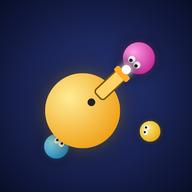
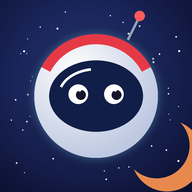
Add files via upload

diff --git a/index.html b/index.html
@@ -3,7 +3,7 @@
 <head>
 <meta charset="UTF-8">
 <meta name="viewport" content="width=device-width, initial-scale=1, user-scalable=no, viewport-fit=cover">
-<title>كرات ومسدسات</title>
+<title>حارس الفضاء</title>
 <link rel="manifest" href="manifest.json">
 <meta name="theme-color" content="#0d1230">
 <style>
@@ -112,7 +112,7 @@ button{font-family:inherit;cursor:pointer}
 </div>
 
 <div class="ov" id="menu">
-  <h1 class="logo">كرات <br>ومسدسات</h1>
+  <h1 class="logo">حارس <br>الفضاء</h1>
   <div id="best"></div>
   <button class="big" id="cont" style="display:none">كمّل اللعب</button>
   <button class="big" id="resume" style="display:none">كمّل الجولة</button>
@@ -153,21 +153,21 @@ addEventListener("resize",resize);resize();
 // ===== المراحل =====
 const ROUNDS=5;
 const WORLDS=[
- {n:"عالم النجوم",rule:"بدون قيود، ابدأ بهدوء",hue:222},
- {n:"عالم الثلج ❄",rule:"الأرض زلقة: تنزلق وانت تتحرك",hue:195,ice:1},
- {n:"عالم الظلام 🌑",rule:"الرؤية محدودة حولك فقط",hue:275,dark:1},
- {n:"عالم النار 🔥",rule:"بقع حمم حمراء تحرقك لو وقفت عليها",hue:15,lava:1},
- {n:"عالم الصحراء 🏜",rule:"عواصف رملية تدفعك بين فترة وأخرى",hue:38,wind:1},
- {n:"عالم العواصف ⚡",rule:"صواعق تضرب أماكن عشوائية قربك",hue:215,storm:1}
+ {n:"مدار الأرض 🌍",rule:"بدون قيود، ابدأ بهدوء",hue:222},
+ {n:"كوكب الجليد ❄",rule:"الأرض زلقة: تنزلق وانت تتحرك",hue:195,ice:1},
+ {n:"الثقب المظلم 🌑",rule:"الرؤية محدودة حولك فقط",hue:275,dark:1},
+ {n:"كوكب النار 🔥",rule:"بقع بلازما حارقة تحرقك لو وقفت عليها",hue:15,lava:1},
+ {n:"كوكب الصحراء 🏜",rule:"عواصف رملية تدفعك بين فترة وأخرى",hue:38,wind:1},
+ {n:"عاصفة الأقمار ⚡",rule:"صواعق تضرب أماكن عشوائية قربك",hue:215,storm:1}
 ];
-const BOSSN=[["الكرة الكبيرة","الكرة الغاضبة","سيّد البنفسج","الملك الأخضر","زعيم النار"],["ملكة الجليد","عملاق الصقيع","تنين الثلج","ساحرة العاصفة","ملك الجليد"],["حارس الظلام","شبح الليل","عين الكابوس","ملك الظلال","سيد العتمة"],["عفريت الحمم","تنين النار","ملك البراكين","سلطان الكرات","الإمبراطور"],["أفعى الرمال","عقرب الصحراء","ملك الكثبان","فرعون الغبار","سيّد الرمال"],["كرة البرق","سيّد الرعد","تنين العاصفة","ملك الصواعق","إله العواصف"]];
+const BOSSN=[["الوحش الكبير","الوحش الغاضب","سيّد البنفسج","الملك الأخضر","زعيم النار"],["ملكة الجليد","عملاق الصقيع","تنين الثلج","ساحرة العاصفة","ملك الجليد"],["حارس الظلام","شبح الليل","عين الكابوس","ملك الظلال","سيد العتمة"],["عفريت الحمم","تنين النار","ملك البراكين","سلطان الوحوش","الإمبراطور"],["أفعى الرمال","عقرب الصحراء","ملك الكثبان","فرعون الغبار","سيّد الرمال"],["وحش البرق","سيّد الرعد","تنين العاصفة","ملك الصواعق","إله العواصف"]];
 const BATKS=[["fan","ring","spiral"],["fan","charge","ring"],["mines","fan","ring","spiral"],["wall","fan","wall","ring"],["charge","wall","spiral","mines"],["wall","mines","ring","charge"],["charge","mines","spiral","wall","fan"],["wall","charge","mines","ring","spiral","fan"]];
 const BTYPES=["n","nfs","nfgt","ncxfgt","ngcxsft"];
 const BHP=[40,65,90,115,150,180,215,260];
 const LEVELS=[];
 for(let i=0;i<30;i++){const w=Math.floor(i/5),k=i%5;
  LEVELS.push({n:Math.min(16,4+i),types:i<5?BTYPES[i]:"ngxcsft",rate:Math.max(380,1000-i*35),hue:(WORLDS[w].hue+k*12)%360,
-  boss:{name:BOSSN[w][k],atks:BATKS[i%8],hp:i<8?BHP[i]:260+(i-7)*24,hue:(WORLDS[w].hue+180+k*20)%360,summon:i>=10?(i>=25?4:i>=15?3:2):0}})}
+  boss:{name:BOSSN[w][k],atks:BATKS[i%8],hp:i<8?BHP[i]:260+(i-7)*24,hue:([95,200,275,5,35,55][w]+k*10)%360,summon:i>=10?(i>=25?4:i>=15?3:2):0}})}
 function WD(){return WORLDS[Math.floor(lvl/5)]||WORLDS[0]}
 function wr(){return inBase?{}:WD()}
 
@@ -184,7 +184,7 @@ const SKINS=[{n:"ذهبي",h:42,cost:0},{n:"أحمر",h:0,cost:40},{n:"أزرق"
 const THEMES={base:{col:"#bde0ff",dir:.6,sway:.2,a:.2,sz:1},stars:{col:"#fff",dir:1,sway:0,a:.2,sz:1},snow:{col:"#eaf6ff",dir:3,sway:.6,a:.4,sz:2},embers:{col:"#ff9a3c",dir:-4,sway:.5,a:.4,sz:1.6},dark:{col:"#b388ff",dir:-1,sway:.3,a:.18,sz:2.4},dust:{col:"#e9c27a",dir:2.5,sway:1,a:.35,sz:1.6},storm:{col:"#9ad7ff",dir:5,sway:.2,a:.3,sz:1.2}};
 const THEME_BY_LEVEL=Array.from({length:30},(_,i)=>["stars","snow","dark","embers","dust","storm"][Math.floor(i/5)]);
 const CHARS=[
- {n:"المقاتل",icon:"🧑",d:"متوازن. المهارة: موجة صدمة",cost:0,hp:1,spd:1,dmg:1,rate:1,def:1,pierce:0,dcd:1100,skill:"shock",sicon:"💥",bandana:"#e63946",hat:0},
+ {n:"المقاتل",icon:"🧑🚀",d:"متوازن. المهارة: موجة صدمة",cost:0,hp:1,spd:1,dmg:1,rate:1,def:1,pierce:0,dcd:1100,skill:"shock",sicon:"💥",bandana:"#e63946",hat:0},
  {n:"القناص",icon:"🎯",d:"ضرر +40% ورصاص يخترق، لكن إطلاقه أبطأ. المهارة: شعاع قاتل",cost:250,hp:.85,spd:.92,dmg:1.4,rate:1.2,def:1,pierce:1,dcd:1100,skill:"snipe",sicon:"🔆",bandana:"#2a9d8f",hat:1},
  {n:"الخفيف",icon:"⚡",d:"سريع جداً واندفاعه يتجدد بسرعة، صحته أقل. المهارة: سرعة البرق",cost:250,hp:.8,spd:1.25,dmg:1,rate:1,def:1,pierce:0,dcd:700,skill:"haste",sicon:"⚡",bandana:"#ffd166",hat:2},
  {n:"الدبّابة",icon:"🛡",d:"صحة +60% وضرر أقل، لكنه أبطأ. المهارة: درع حديدي",cost:300,hp:1.6,spd:.85,dmg:1,rate:1,def:.75,pierce:0,dcd:1300,skill:"iron",sicon:"🛡",bandana:"#8d99ae",hat:3}
@@ -320,7 +320,7 @@ function startRound(){
  kills=0;spawnT=300;enemies=[];eb=[];mines=[];banner=2000;
  const L=LEVELS[lvl];
  if(rd===ROUNDS-1){goal=1;boss=makeBoss(L.boss);bt1="⚠ زعيم المرحلة "+(lvl+1);bt2=L.boss.name}
- else{boss=null;goal=L.n+rd*2;bt1="المرحلة "+(lvl+1)+" - الجولة "+(rd+1)+"/"+ROUNDS;bt2="اقضِ على "+goal+" كرة"+(rd===0?" — "+WD().n:"")}
+ else{boss=null;goal=L.n+rd*2;bt1="المرحلة "+(lvl+1)+" - الجولة "+(rd+1)+"/"+ROUNDS;bt2="اقضِ على "+goal+" وحش"+(rd===0?" — "+WD().n:"")}
  evT=(rd>0&&rd<ROUNDS-1&&Math.random()<.5)?rnd(5000,11000):-1;
  lava=wr().lava?makeLava():[];makeObstacles();windT=4000;windOn=0;stormT=3000;
  saveRun();
@@ -375,11 +375,11 @@ let inBase=false,portal=null,resumeSt=null,freezeT=0,mines=[],blasts=[],corpses=
 const BASE={cd:0};
 function bgHue(){return inBase?205:LEVELS[lvl].hue}
 function zones(){const L=W>H*1.2;return[
- {x:W*.5,y:H*(L?.3:.17),r:48,icon:"🚪",label:"اختيار المرحلة",col:"#ffc23c",go:()=>{resumeSt="base";st="pause";openLevels()}},
- {x:W*(L?.2:.22),y:H*(L?.42:.34),r:40,icon:"📜",label:"المهام",col:"#ffd166",badge:()=>qReady(),go:()=>{resumeSt="base";st="pause";openQuests()}},
- {x:W*(L?.8:.78),y:H*(L?.42:.34),r:40,icon:"📖",label:"دليل الأعداء",col:"#b388ff",go:()=>{resumeSt="base";st="pause";openDex()}},
- {x:W*(L?.32:.22),y:H*(L?.6:.52),r:40,icon:"🛒",label:"المتجر",col:"#80ffdb",go:()=>{resumeSt="base";st="pause";shopMode="base";openShop()}},
- {x:W*(L?.68:.78),y:H*(L?.6:.52),r:40,icon:"🧑",label:"الشخصيات",col:"#ff6fb5",go:()=>{resumeSt="base";st="pause";openChars()}}
+ {x:W*.5,y:H*(L?.3:.17),r:48,icon:"🚀",label:"اختيار المرحلة",col:"#ffc23c",go:()=>{resumeSt="base";st="pause";openLevels()}},
+ {x:W*(L?.2:.22),y:H*(L?.42:.34),r:40,icon:"📡",label:"المهام",col:"#ffd166",badge:()=>qReady(),go:()=>{resumeSt="base";st="pause";openQuests()}},
+ {x:W*(L?.8:.78),y:H*(L?.42:.34),r:40,icon:"👽",label:"سجل الوحوش",col:"#b388ff",go:()=>{resumeSt="base";st="pause";openDex()}},
+ {x:W*(L?.32:.22),y:H*(L?.6:.52),r:40,icon:"🛰",label:"المتجر",col:"#80ffdb",go:()=>{resumeSt="base";st="pause";shopMode="base";openShop()}},
+ {x:W*(L?.68:.78),y:H*(L?.6:.52),r:40,icon:"🧑🚀",label:"الشخصيات",col:"#ff6fb5",go:()=>{resumeSt="base";st="pause";openChars()}}
 ]}
 function baseTick(dt){
  P.hp=Math.min(P.mh,P.hp+dt*.02);
@@ -435,11 +435,16 @@ function deco(e){
  if(freezeT>0){ctx.fillStyle="#aee7ff77";ctx.beginPath();ctx.arc(e.x,e.y,r+2,0,6.283);ctx.fill()}
 }
 function bossDeco(B){
- const k=lvl%4,r=B.r,t=performance.now()/600;ctx.fillStyle="#ffd166";
- if(k===0){for(let i=-1;i<=1;i++)tri(B.x+i*r*.5-r*.18,B.y-r*.85,B.x+i*r*.5+r*.18,B.y-r*.85,B.x+i*r*.5,B.y-r*1.3)}
- else if(k===1){for(const s of[-1,1])tri(B.x+s*r*.25,B.y-r*.95,B.x+s*r*.6,B.y-r*.75,B.x+s*r*.9,B.y-r*1.4)}
- else if(k===2){for(let i=0;i<12;i++){const q=i/12*6.283+t;tri(B.x+Math.cos(q-.13)*r,B.y+Math.sin(q-.13)*r,B.x+Math.cos(q+.13)*r,B.y+Math.sin(q+.13)*r,B.x+Math.cos(q)*r*1.28,B.y+Math.sin(q)*r*1.28)}}
- else{ctx.strokeStyle="#ffd166";ctx.lineWidth=4;ctx.beginPath();ctx.ellipse(B.x,B.y-r-14,r*.6,8,0,0,6.283);ctx.stroke()}
+ const w=Math.floor(lvl/5)%6,r=B.r,t=performance.now()/600;ctx.lineCap="round";
+ if(w===0){ctx.strokeStyle="hsl("+B.hue+",70%,40%)";ctx.lineWidth=r*.09;for(const s of[-1,1]){const sw=Math.sin(t*2+s)*r*.12;ctx.beginPath();ctx.moveTo(B.x+s*r*.4,B.y-r*.85);ctx.quadraticCurveTo(B.x+s*r*.7+sw,B.y-r*1.2,B.x+s*r*.6+sw*1.5,B.y-r*1.55);ctx.stroke();ctx.fillStyle="#ffd166";ctx.beginPath();ctx.arc(B.x+s*r*.6+sw*1.5,B.y-r*1.55,r*.12,0,6.283);ctx.fill()}}
+ else if(w===1){ctx.fillStyle="#cdeeff";for(let i=-3;i<=3;i++){const bx=B.x+i*r*.26,by=B.y-r*Math.sqrt(Math.max(.05,1-(i*.26)*(i*.26)))*.95,h=r*(.5+.12*(3-Math.abs(i)));tri(bx-r*.1,by,bx+r*.1,by,bx+i*r*.03,by-h)}}
+ else if(w===2){ctx.fillStyle="#b388ff88";for(let i=-2;i<=2;i++){const bx=B.x+i*r*.35,sw=Math.sin(t*3+i)*r*.12;tri(bx-r*.16,B.y+r*.85,bx+r*.16,B.y+r*.85,bx+sw,B.y+r*1.35)}
+  ctx.fillStyle="#fff";ctx.beginPath();ctx.arc(B.x,B.y-r*.5,r*.14,0,6.283);ctx.fill();ctx.fillStyle="#b388ff";ctx.beginPath();ctx.arc(B.x,B.y-r*.5,r*.07,0,6.283);ctx.fill()}
+ else if(w===3){ctx.fillStyle="#3b2a2a";for(const s of[-1,1])tri(B.x+s*r*.25,B.y-r*.9,B.x+s*r*.6,B.y-r*.75,B.x+s*r*.95,B.y-r*1.45);
+  ctx.strokeStyle="#ff9a3c";ctx.lineWidth=3;ctx.beginPath();ctx.moveTo(B.x-r*.6,B.y-r*.2);ctx.lineTo(B.x-r*.35,B.y+r*.1);ctx.lineTo(B.x-r*.5,B.y+r*.45);ctx.moveTo(B.x+r*.55,B.y-r*.3);ctx.lineTo(B.x+r*.3,B.y+r*.05);ctx.stroke()}
+ else if(w===4){ctx.fillStyle="hsl("+B.hue+",55%,38%)";for(const s of[-1,1]){ctx.beginPath();ctx.arc(B.x+s*r*1.05,B.y+r*.1,r*.32,0,6.283);ctx.fill();tri(B.x+s*r*1.05,B.y-r*.2,B.x+s*r*1.35,B.y-r*.5,B.x+s*r*1.2,B.y)}
+  ctx.strokeStyle="hsl("+B.hue+",55%,38%)";ctx.lineWidth=r*.14;ctx.beginPath();ctx.moveTo(B.x,B.y-r*.85);ctx.quadraticCurveTo(B.x+r*.5,B.y-r*1.5,B.x+r*.2,B.y-r*1.4);ctx.stroke()}
+ else{ctx.strokeStyle="#ffe066";ctx.lineWidth=3;ctx.shadowColor="#ffe066";ctx.shadowBlur=14;for(let i=0;i<5;i++){const q=i/5*6.283+t;ctx.beginPath();ctx.moveTo(B.x+Math.cos(q)*r,B.y+Math.sin(q)*r);ctx.lineTo(B.x+Math.cos(q+.1)*r*1.15,B.y+Math.sin(q+.1)*r*1.15);ctx.lineTo(B.x+Math.cos(q-.05)*r*1.3,B.y+Math.sin(q-.05)*r*1.3);ctx.stroke()}ctx.shadowBlur=0}
  if(B.chs===1){ctx.strokeStyle="#ff4d6d";ctx.lineWidth=4;ctx.beginPath();ctx.arc(B.x,B.y,r+10+Math.sin(performance.now()/40)*4,0,6.283);ctx.stroke()}
 }
 function gate(x,y,r,col,icon,label){
@@ -457,9 +462,9 @@ function saveStats(){try{localStorage.setItem("balls_stats",JSON.stringify(stats
 function showToast(t){const el=$("toast");el.textContent=t;el.style.display="block";clearTimeout(toastT);toastT=setTimeout(()=>{el.style.display="none"},3800)}
 function setLow(v){lowFx=v;try{localStorage.setItem("balls_low",v?"1":"0")}catch(e){}$("lowb").textContent="الجودة: "+(v?"منخفضة":"عالية");resize()}
 const ACH=[
- {id:"k1",n:"أول كرة",d:"اقتل كرة",test:()=>stats.k>=1,r:10},
- {id:"k100",n:"صياد",d:"اقتل 100 كرة",test:()=>stats.k>=100,r:40},
- {id:"k500",n:"سفّاح الكرات",d:"اقتل 500 كرة",test:()=>stats.k>=500,r:100},
+ {id:"k1",n:"أول وحش",d:"اقتل وحشاً",test:()=>stats.k>=1,r:10},
+ {id:"k100",n:"صياد",d:"اقتل 100 وحش",test:()=>stats.k>=100,r:40},
+ {id:"k500",n:"سفّاح الوحوش",d:"اقتل 500 وحش",test:()=>stats.k>=500,r:100},
  {id:"b1",n:"قاتل الزعماء",d:"اهزم زعيم",test:()=>stats.b>=1,r:50},
  {id:"b4",n:"ملك الزعماء",d:"اهزم 4 زعماء",test:()=>stats.b>=4,r:100},
  {id:"b8",n:"الأسطورة",d:"اهزم 8 زعماء",test:()=>stats.b>=8,r:200},
@@ -478,7 +483,7 @@ function checkAch(){for(const a of ACH)if(!stats.ach.includes(a.id)&&a.test()){s
 function openAch(){
  const el=$("ach");el.innerHTML="";
  const h=document.createElement("h2");h.textContent="🏆 الإنجازات";el.appendChild(h);
- const t=document.createElement("div");t.textContent="كرات مقتولة: "+stats.k+"  |  زعماء: "+stats.b;el.appendChild(t);
+ const t=document.createElement("div");t.textContent="وحوش مقتولة: "+stats.k+"  |  زعماء: "+stats.b;el.appendChild(t);
  for(const a of ACH){const done=stats.ach.includes(a.id),d=document.createElement("div");d.className="it";
   const s1=document.createElement("span");s1.textContent=(done?"✅ ":"🔒 ")+a.n+" — "+a.d;const s2=document.createElement("span");s2.textContent="🪙 "+a.r;
   d.appendChild(s1);d.appendChild(s2);el.appendChild(d)}
@@ -498,7 +503,7 @@ function showTut(){
  try{if(localStorage.getItem("balls_tut"))return}catch(e){}
  const el=$("tut"),touch=matchMedia("(pointer:coarse)").matches;el.innerHTML="";
  const h=document.createElement("h2");h.textContent="أهلاً بك! 👋";el.appendChild(h);
- const lines=(touch?["👈 العصا اليسرى للحركة","👉 العصا اليمنى للتصويب (تطلق طول ما تحركها)","💨 «اندفاع» يخليك تتجاوز الكرات والرصاص، و💥 مهارة الصدمة لما تمتلئ","🎒 الحقيبة لتغيير السلاح"]:["WASD للحركة، والماوس للتصويب، والضغط للإطلاق","Shift للاندفاع، و1-6 لتغيير السلاح، وP للإيقاف"]).concat(["🚪 ادخل البوابة لاختيار المرحلة، و🛒 للمتجر","🎯 اشترِ «التصويب التلقائي» من المتجر لتسهّل اللعب","🌀 بعد قتل الزعيم تظهر بوابة ترجعك للقاعدة"]);
+ const lines=(touch?["👈 العصا اليسرى للحركة","👉 العصا اليمنى للتصويب (تطلق طول ما تحركها)","💨 «اندفاع» يخليك تتجاوز الوحوش والرصاص، و💥 مهارة الصدمة لما تمتلئ","🎒 الحقيبة لتغيير السلاح"]:["WASD للحركة، والماوس للتصويب، والضغط للإطلاق","Shift للاندفاع، و1-6 لتغيير السلاح، وP للإيقاف"]).concat(["🚪 ادخل البوابة لاختيار المرحلة، و🛒 للمتجر","🎯 اشترِ «التصويب التلقائي» من المتجر لتسهّل اللعب","🌀 بعد قتل الزعيم تظهر بوابة ترجعك للقاعدة"]);
  for(const t of lines){const d=document.createElement("div");d.className="it";d.textContent=t;el.appendChild(d)}
  const b=document.createElement("button");b.className="big";b.textContent="فهمت، يلا نلعب";
  b.onclick=()=>{el.style.display="none";try{localStorage.setItem("balls_tut","1")}catch(e){}if(st==="pause"&&inBase)st="base"};el.appendChild(b);
@@ -513,8 +518,8 @@ function img(im,x,y,r){ctx.drawImage(im,x-r,y-r,r*2,r*2)}
 function loadSounds(){for(const n of["pistol","smg","shotgun","laser","hit","kill","hurt","dash","clear","buy","over","click","pick","eshot"])fetch("sounds/"+n+".mp3").then(r=>r.ok?r.arrayBuffer():null).then(b=>b?AC.decodeAudioData(b):null).then(u=>{if(u)SF[n]=u}).catch(()=>{})}
 // ===== شخصيات حيّة: عيون ترمش، حواجب، أفواه، تنفّس، تمدد مع الحركة =====
 function easeBack(t){t=Math.min(1,t);const c1=1.70158,c3=c1+1;return 1+c3*Math.pow(t-1,3)+c1*Math.pow(t-1,2)}
-function eye(x,y,er,ox,oy,mode,s){
- ctx.lineCap="round";ctx.strokeStyle="#14142b";
+function eye(x,y,er,ox,oy,mode,s,col){
+ ctx.lineCap="round";ctx.strokeStyle=col||"#14142b";
  if(mode===1){ctx.lineWidth=er*.35;ctx.beginPath();ctx.moveTo(x-er,y);ctx.lineTo(x+er,y);ctx.stroke();return}
  if(mode===2){ctx.lineWidth=er*.35;ctx.beginPath();ctx.moveTo(x+s*er,y-er*.7);ctx.lineTo(x-s*er*.6,y);ctx.lineTo(x+s*er,y+er*.7);ctx.stroke();return}
  ctx.fillStyle="#fff";ctx.beginPath();ctx.arc(x,y,er,0,6.283);ctx.fill();
@@ -522,6 +527,51 @@ function eye(x,y,er,ox,oy,mode,s){
  ctx.fillStyle="#fff";ctx.beginPath();ctx.arc(x+ox*er*.45-er*.16,y+oy*er*.45-er*.2,er*.16,0,6.283);ctx.fill();
 }
 function brow(x,y,w,tt,s){ctx.strokeStyle="#14142b";ctx.lineWidth=Math.max(2,w*.35);ctx.lineCap="round";ctx.beginPath();ctx.moveTo(x+s*w,y-tt);ctx.lineTo(x-s*w,y+tt);ctx.stroke()}
+function blob(R,h,sa,l,cx,cy){cx=cx||0;cy=cy||0;const g=ctx.createRadialGradient(cx-R*.3,cy-R*.35,R*.1,cx,cy,R);g.addColorStop(0,"hsl("+h+","+sa+"%,"+Math.min(92,l+24)+"%)");g.addColorStop(1,"hsl("+h+","+sa+"%,"+l+"%)");ctx.shadowColor="hsl("+h+",100%,60%)";ctx.shadowBlur=14;ctx.fillStyle=g;ctx.beginPath();ctx.arc(cx,cy,R,0,6.283);ctx.fill();ctx.shadowBlur=0}
+function monster(e,R,T){
+ const a=Math.atan2(P.y-e.y,P.x-e.x),ox=Math.cos(a),oy=Math.sin(a),hurtE=e.hit>0,bl=((T+e.ph)%3.3)<.11,mode=hurtE?2:bl?1:0,t=e.t,dk="#14142b";
+ ctx.lineCap="round";
+ if(t==="n"){
+  blob(R,e.hue,70,45);ctx.strokeStyle="hsl("+e.hue+",70%,38%)";ctx.lineWidth=R*.08;
+  for(const s of[-1,1]){const sw=Math.sin(T*3+e.ph+s)*R*.1;ctx.beginPath();ctx.moveTo(s*R*.3,-R*.8);ctx.quadraticCurveTo(s*R*.55+sw,-R*1.05,s*R*.5+sw*1.5,-R*1.38);ctx.stroke();ctx.fillStyle="hsl("+e.hue+",90%,72%)";ctx.beginPath();ctx.arc(s*R*.5+sw*1.5,-R*1.38,R*.11,0,6.283);ctx.fill()}
+  eye(0,-R*.1,R*.48,ox,oy,mode,1);
+  ctx.strokeStyle=dk;ctx.lineWidth=Math.max(1.5,R*.07);ctx.beginPath();ctx.arc(0,R*.42,R*.26,Math.PI*.1,Math.PI*.9);ctx.stroke();
+  ctx.fillStyle="#fff";tri(-R*.14,R*.58,-R*.04,R*.58,-R*.09,R*.7);tri(R*.04,R*.58,R*.14,R*.58,R*.09,R*.7);
+ }else if(t==="f"){
+  const fl=.5+Math.sin(T*38+e.ph)*.4;ctx.fillStyle="rgba(180,240,255,.55)";
+  for(const s of[-1,1]){ctx.save();ctx.rotate(s*fl);ctx.beginPath();ctx.ellipse(s*R*.8,-R*.35,R*.7,R*.28,s*.5,0,6.283);ctx.fill();ctx.restore()}
+  blob(R,e.hue,85,52);eye(-R*.32,-R*.1,R*.3,ox,oy,mode,-1);eye(R*.32,-R*.1,R*.3,ox,oy,mode,1);
+  ctx.strokeStyle=dk;ctx.lineWidth=R*.1;for(const s of[-1,1]){ctx.beginPath();ctx.moveTo(s*R*.2,R*.5);ctx.lineTo(s*R*.45,R*.82);ctx.stroke()}
+ }else if(t==="t"){
+  const g=ctx.createLinearGradient(-R,-R,R,R);g.addColorStop(0,"#8c8576");g.addColorStop(1,"#3b3744");ctx.fillStyle=g;ctx.beginPath();
+  for(let i=0;i<10;i++){const q=i/10*6.283,rr=R*(.88+.14*Math.sin(i*2.3+e.ph)),px=Math.cos(q)*rr,py=Math.sin(q)*rr;if(i)ctx.lineTo(px,py);else ctx.moveTo(px,py)}
+  ctx.closePath();ctx.shadowColor="#ff3b3b";ctx.shadowBlur=10;ctx.fill();ctx.shadowBlur=0;
+  ctx.strokeStyle="#ff6a3c";ctx.lineWidth=2;ctx.beginPath();ctx.moveTo(-R*.5,-R*.6);ctx.lineTo(-R*.25,-R*.25);ctx.lineTo(-R*.4,R*.1);ctx.moveTo(R*.45,-R*.5);ctx.lineTo(R*.2,-R*.15);ctx.stroke();
+  ctx.fillStyle=hurtE?"#fff":"#ff3b3b";ctx.shadowColor="#ff3b3b";ctx.shadowBlur=10;for(const s of[-1,1]){ctx.beginPath();ctx.ellipse(s*R*.34,-R*.1,R*.2,R*.1,s*.3,0,6.283);ctx.fill()}ctx.shadowBlur=0;
+  ctx.strokeStyle=dk;ctx.lineWidth=Math.max(2,R*.07);ctx.beginPath();ctx.moveTo(-R*.4,R*.45);for(let k=1;k<=6;k++)ctx.lineTo(-R*.4+k*R*.13,R*(k%2?.58:.42));ctx.stroke();
+ }else if(t==="s"){
+  ctx.globalAlpha=.9;blob(R*.78,e.hue,70,50,-R*.24,0);blob(R*.78,e.hue,70,50,R*.24,0);ctx.globalAlpha=1;
+  ctx.fillStyle="hsla("+e.hue+",90%,82%,.7)";for(const s of[-1,1]){ctx.beginPath();ctx.arc(s*R*.3,R*.2,R*.13,0,6.283);ctx.fill()}
+  eye(-R*.3,-R*.12,R*.24,ox,oy,mode,-1);eye(R*.3,-R*.12,R*.24,ox,oy,mode,1);
+  ctx.strokeStyle=dk;ctx.lineWidth=Math.max(1.5,R*.07);ctx.beginPath();ctx.moveTo(-R*.25,R*.4);ctx.lineTo(-R*.1,R*.5);ctx.lineTo(0,R*.4);ctx.lineTo(R*.1,R*.5);ctx.lineTo(R*.25,R*.4);ctx.stroke();
+ }else if(t==="g"){
+  ctx.strokeStyle="hsl("+e.hue+",60%,36%)";ctx.lineWidth=R*.2;
+  for(const i of[-1.5,-.5,.5,1.5]){ctx.beginPath();ctx.moveTo(i*R*.3,R*.3);for(let k=1;k<=6;k++)ctx.lineTo(i*R*.3+Math.sin(T*5+k*.9+i)*R*.12*(k/3),R*.3+k*R*.19);ctx.stroke()}
+  blob(R*.88,e.hue,60,45,0,-R*.12);
+  for(const s of[-1,1]){eye(s*R*.32,-R*.2,R*.26,ox,oy,mode,s);if(!hurtE&&!bl)brow(s*R*.32,-R*.2-R*.4,R*.28,R*.18,s)}
+  ctx.fillStyle=dk;ctx.beginPath();ctx.ellipse(0,R*.22,R*.14,R*.1,0,0,6.283);ctx.fill();
+ }else if(t==="c"){
+  blob(R*.92,e.hue,85,42);const er=R*.26,ex=R*.34,ey=-R*.1;
+  for(const s of[-1,1]){eye(s*ex,ey,er,ox,oy,mode,s);if(!hurtE&&!bl)brow(s*ex,ey-er*1.5,er*1.1,er*.7,s)}
+  ctx.strokeStyle=dk;ctx.fillStyle=dk;ctx.lineWidth=Math.max(1.5,R*.07);ctx.beginPath();const my=R*.42;
+  if(e.state>0){ctx.ellipse(0,my,R*.3,R*.2,0,0,6.283);ctx.fill();ctx.fillStyle="#fff";for(let i=-2;i<=2;i++)tri(i*R*.11-R*.05,my-R*.2,i*R*.11+R*.05,my-R*.2,i*R*.11,my-R*.05)}
+  else{ctx.arc(0,my+R*.18,R*.27,Math.PI*1.15,Math.PI*1.85);ctx.stroke()}
+ }else{
+  blob(R,220,10,24);ctx.fillStyle="#9aa4b8";for(let i=0;i<8;i++){const q=i/8*6.283;ctx.beginPath();ctx.arc(Math.cos(q)*R*.78,Math.sin(q)*R*.78,R*.07,0,6.283);ctx.fill()}
+  const on=Math.floor(T*5)%2;ctx.fillStyle=hurtE?"#fff":on?"#ff9a9a":"#ff2a2a";ctx.shadowColor="#ff2a2a";ctx.shadowBlur=14;ctx.beginPath();ctx.arc(0,0,R*.36,0,6.283);ctx.fill();ctx.shadowBlur=0;
+  ctx.fillStyle=dk;ctx.beginPath();ctx.arc(ox*R*.1,oy*R*.1,R*.15,0,6.283);ctx.fill();
+ }
+}
 function drawEnemy(e){
  const T=performance.now()/1000,pop=easeBack((e.age||0)/350),R=e.r*pop;if(R<1)return;
  const vx=e.x-(e.lx===undefined?e.x:e.lx),vy=e.y-(e.ly===undefined?e.y:e.ly);e.lx=e.x;e.ly=e.y;
@@ -531,18 +581,7 @@ function drawEnemy(e){
  ctx.rotate(Math.sin(T*9+e.ph)*.1*sp);
  if(sp>.05){ctx.rotate(mv);ctx.scale(1+sp*.2,1-sp*.15);ctx.rotate(-mv)}
  ctx.scale(br,2-br);
- ball(0,0,R,e.hue,null);
- const a=Math.atan2(P.y-e.y,P.x-e.x),ox=Math.cos(a),oy=Math.sin(a),hurtE=e.hit>0,bl=((T+e.ph)%3.3)<.11,mode=hurtE?2:bl?1:0;
- const er=R*(e.t==="f"?.31:e.t==="t"?.21:.26),ey=-R*.1,ex=R*.38,angry=e.t==="c"||e.t==="x"||e.t==="t"||e.t==="g"||e.state>0;
- for(const s of[-1,1]){eye(s*ex,ey,er,ox,oy,mode,s);if(!hurtE&&!bl&&angry)brow(s*ex,ey-er*1.5,er*1.1,er*.7,s)}
- const my=R*.42;ctx.strokeStyle="#14142b";ctx.fillStyle="#14142b";ctx.lineWidth=Math.max(1.5,R*.07);ctx.lineCap="round";ctx.beginPath();
- if(hurtE){ctx.ellipse(0,my,R*.14,R*.18,0,0,6.283);ctx.fill()}
- else if(e.t==="f"){ctx.arc(0,my,R*.11,0,6.283);ctx.stroke()}
- else if(e.t==="c"&&e.state>0){ctx.ellipse(0,my,R*.3,R*.2,0,0,6.283);ctx.fill();ctx.fillStyle="#fff";for(let i=-2;i<=2;i++)tri(i*R*.11-R*.05,my-R*.2,i*R*.11+R*.05,my-R*.2,i*R*.11,my-R*.05)}
- else if(angry){ctx.arc(0,my+R*.18,R*.27,Math.PI*1.15,Math.PI*1.85);ctx.stroke()}
- else if(e.t==="s"){ctx.moveTo(-R*.3,my);ctx.lineTo(-R*.15,my+R*.1);ctx.lineTo(0,my);ctx.lineTo(R*.15,my+R*.1);ctx.lineTo(R*.3,my);ctx.stroke()}
- else{ctx.arc(0,my-R*.15,R*.27,Math.PI*.15,Math.PI*.85);ctx.stroke()}
- if(e.t==="n"){ctx.fillStyle="#ff789655";for(const s of[-1,1]){ctx.beginPath();ctx.ellipse(s*R*.58,my*.8,R*.13,R*.08,0,0,6.283);ctx.fill()}}
+ monster(e,R,T);const hurtE=e.hit>0;
  if(e.burn>0){ctx.fillStyle="#ff7a3c66";ctx.beginPath();ctx.arc(0,0,R,0,6.283);ctx.fill()}
  if(e.poison>0){ctx.fillStyle="#7bd34c66";ctx.beginPath();ctx.arc(0,0,R,0,6.283);ctx.fill()}
  if(hurtE){ctx.fillStyle="rgba(255,255,255,"+Math.min(.55,e.hit/160)+")";ctx.beginPath();ctx.arc(0,0,R,0,6.283);ctx.fill()}
@@ -565,38 +604,38 @@ function drawBossBody(B){
  ctx.restore();
 }
 function drawHero(){
- const T=performance.now()/1000,sp=Math.min(1,Math.hypot(P.vx,P.vy)/3.5),r=P.r*1.35,ph=T*14,bob=Math.sin(ph)*sp*1.8,x=P.x,y=P.y+bob;
+ const T=performance.now()/1000,sp=Math.min(1,Math.hypot(P.vx,P.vy)/3.5),r=P.r*1.35,ph=T*14,bob=Math.sin(ph)*sp*1.8,x=P.x,y=P.y+bob,C=CH(),hue=SKINS[skin].h;
  ctx.fillStyle="#0006";ctx.beginPath();ctx.ellipse(P.x,P.y+r*1.05,r*.85,r*.26,0,0,6.283);ctx.fill();
  if(IMGS.player)img(IMGS.player,x,y,P.r*1.35);
  else{
-  ctx.fillStyle="#14142b";
-  for(const s of[-1,1]){const st=Math.sin(ph+(s>0?0:Math.PI))*sp*4;ctx.beginPath();ctx.ellipse(P.x+s*r*.42+st*.3,P.y+r*.95-Math.abs(st)*.25,r*.3,r*.2,0,0,6.283);ctx.fill()}
+  if(C.hat===2&&(sp>.1||P.haste>0)){for(const s of[-1,1]){const fl=r*(.45+Math.random()*.4);ctx.fillStyle="#ffb02e";ctx.beginPath();ctx.moveTo(x-r*.8+s*r*.12,y+r*.55);ctx.lineTo(x-r*.8-s*r*.02,y+r*.55);ctx.lineTo(x-r*.85+s*r*.05,y+r*.55+fl);ctx.closePath();ctx.fill()}}
+  ctx.fillStyle="#2a2f45";for(const s of[-1,1]){const st=Math.sin(ph+(s>0?0:Math.PI))*sp*4;ctx.beginPath();ctx.ellipse(P.x+s*r*.38+st*.3,P.y+r*.98-Math.abs(st)*.25,r*.28,r*.17,0,0,6.283);ctx.fill()}
   ctx.save();ctx.translate(x,y);
   if(P.dash>0){const da=Math.atan2(P.dy,P.dx);ctx.rotate(da);ctx.scale(1.35,.78);ctx.rotate(-da)}
   else{const id=Math.sin(T*3)*.03;ctx.scale(1+id+sp*.05,1-id-sp*.05)}
-  ball(0,0,r,SKINS[skin].h,null);
-  // شريطة الرأس بذيل يرفرف
-  ctx.strokeStyle=CH().bandana;ctx.lineWidth=r*.26;ctx.lineCap="butt";ctx.beginPath();ctx.arc(0,0,r*.93,Math.PI*1.17,Math.PI*1.83);ctx.stroke();
-  const bx=Math.cos(Math.PI*1.83)*r*.93,by=Math.sin(Math.PI*1.83)*r*.93,wv=Math.sin(T*10)*3,dx=sp>.1?-P.vx:-1,dy=sp>.1?-P.vy:.3,dl=Math.hypot(dx,dy)||1;
-  ctx.lineWidth=r*.2;ctx.lineCap="round";ctx.beginPath();ctx.moveTo(bx,by);ctx.quadraticCurveTo(bx+dx/dl*r*.5+wv,by+dy/dl*r*.5-wv,bx+dx/dl*r*.95,by+dy/dl*r*.95+wv);ctx.stroke();
-  const ex=r*.36,ey=r*.02,er=r*.27,ox=Math.cos(P.angle),oy=Math.sin(P.angle),hurtP=P.inv>0,bl=(T%3.6)<.11;
-  for(const s of[-1,1]){eye(s*ex,ey,er,ox,oy,hurtP?2:bl?1:0,s);if(!hurtP&&!bl)brow(s*ex,ey-er*1.55,er*1.05,er*.3,s)}
-  if(CH().hat===1){ctx.strokeStyle="#2a9d8f";ctx.lineWidth=2.2;ctx.beginPath();ctx.arc(ex,ey,er*1.3,0,6.283);ctx.stroke()}
-  if(CH().hat===3){ctx.strokeStyle="#8d99ae";ctx.lineWidth=r*.34;ctx.lineCap="butt";ctx.beginPath();ctx.arc(0,0,r*.96,Math.PI*1.1,Math.PI*1.9);ctx.stroke()}
-  ctx.strokeStyle="#14142b";ctx.fillStyle="#14142b";ctx.lineWidth=Math.max(1.5,r*.08);ctx.lineCap="round";ctx.beginPath();const my=r*.47;
-  if(P.flash>0){ctx.ellipse(0,my,r*.14,r*.17,0,0,6.283);ctx.fill()}
-  else if(hurtP){ctx.moveTo(-r*.25,my+2);ctx.quadraticCurveTo(0,my-r*.15,r*.25,my+2);ctx.stroke()}
-  else{ctx.arc(0,my-r*.12,r*.26,Math.PI*.15,Math.PI*.85);ctx.stroke()}
+  ctx.fillStyle="#8e98ae";ctx.beginPath();ctx.roundRect(-r*.92,-r*.05,r*.5,r*.85,6);ctx.fill();
+  const sg=ctx.createLinearGradient(0,r*.1,0,r*.95);sg.addColorStop(0,"#f2f5fb");sg.addColorStop(1,"#bcc5dc");ctx.fillStyle=sg;ctx.beginPath();ctx.ellipse(0,r*.52,r*.68,r*.5,0,0,6.283);ctx.fill();
+  ctx.fillStyle="hsl("+hue+",75%,55%)";ctx.beginPath();ctx.arc(0,r*.55,r*.16,0,6.283);ctx.fill();
+  if(C.hat===3){ctx.fillStyle="#7d869c";for(const s of[-1,1]){ctx.beginPath();ctx.arc(s*r*.74,r*.38,r*.28,0,6.283);ctx.fill()}}
+  const hg=ctx.createRadialGradient(-r*.3,-r*.5,r*.1,0,-r*.1,r);hg.addColorStop(0,"#ffffff");hg.addColorStop(1,"#c2cadf");
+  ctx.shadowColor="hsl("+hue+",100%,65%)";ctx.shadowBlur=14;ctx.fillStyle=hg;ctx.beginPath();ctx.arc(0,-r*.12,r*.92,0,6.283);ctx.fill();ctx.shadowBlur=0;
+  ctx.strokeStyle=C.bandana;ctx.lineWidth=r*.15;ctx.lineCap="butt";ctx.beginPath();ctx.arc(0,-r*.12,r*.92,Math.PI*1.22,Math.PI*1.78);ctx.stroke();
+  const vg=ctx.createLinearGradient(0,-r*.7,0,r*.45);vg.addColorStop(0,"#1a2c5a");vg.addColorStop(1,"#0a1330");ctx.fillStyle=vg;ctx.beginPath();ctx.ellipse(0,-r*.1,r*.7,r*.52,0,0,6.283);ctx.fill();
+  ctx.strokeStyle="#ffffff66";ctx.lineWidth=2.4;ctx.lineCap="round";ctx.beginPath();ctx.arc(0,-r*.1,r*.58,Math.PI*1.12,Math.PI*1.45);ctx.stroke();
+  const ex=r*.26,ey=-r*.08,er=r*.2,ox=Math.cos(P.angle),oy=Math.sin(P.angle),hurtP=P.inv>0,bl=(T%3.6)<.11;
+  for(const s of[-1,1])eye(s*ex,ey,er,ox,oy,hurtP?2:bl?1:0,s,"#9fe8ff");
+  if(C.hat===1){ctx.strokeStyle="#ff5b5b";ctx.lineWidth=2;ctx.beginPath();ctx.arc(ex,ey,er*1.55,0,6.283);ctx.stroke()}
+  ctx.strokeStyle="#7d869c";ctx.lineWidth=2;ctx.beginPath();ctx.moveTo(r*.55,-r*.85);ctx.lineTo(r*.72,-r*1.22);ctx.stroke();ctx.fillStyle=Math.floor(T*2)%2?"#ff5b5b":"#ffb3b3";ctx.beginPath();ctx.arc(r*.72,-r*1.22,r*.09,0,6.283);ctx.fill();
   ctx.restore();
  }
- // السلاح والأيدي
  ctx.save();ctx.translate(P.x,P.y+bob*.5);ctx.rotate(P.angle);if(Math.cos(P.angle)<0)ctx.scale(1,-1);
- const g=GUNS[cur],kick=P.flash>0?-4*Math.min(1,P.flash/70):0,gx=r*.78+kick,gl=g.big?30:26,gh=g.big?13:10;
+ const g=GUNS[cur],kick=P.flash>0?-4*Math.min(1,P.flash/70):0,gx=r*.62+kick,gl=g.big?30:26,gh=g.big?13:10;
  ctx.fillStyle="#14142b";ctx.beginPath();ctx.roundRect(gx-2,-gh/2-2,gl+4,gh+4,5);ctx.fill();
  ctx.fillStyle=g.color;ctx.beginPath();ctx.roundRect(gx,-gh/2,gl,gh,4);ctx.fill();
- ctx.fillStyle="#ffffff66";ctx.fillRect(gx+3,-gh/2+2,gl-6,2);
- ctx.fillStyle="#ffe6c4";ctx.strokeStyle="#14142b";ctx.lineWidth=1.5;
- for(const hx of[gx+4,gx+gl*.55]){ctx.beginPath();ctx.arc(hx,gh*.35,r*.26,0,6.283);ctx.fill();ctx.stroke()}
+ ctx.fillStyle="#ffffff77";ctx.fillRect(gx+3,-gh/2+2,gl-6,2);
+ ctx.fillStyle=g.color;ctx.shadowColor=g.color;ctx.shadowBlur=10;ctx.beginPath();ctx.arc(gx+gl,0,gh*.28,0,6.283);ctx.fill();ctx.shadowBlur=0;
+ ctx.fillStyle="#e8ecf7";ctx.strokeStyle="#14142b";ctx.lineWidth=1.5;
+ for(const hx of[gx+4,gx+gl*.55]){ctx.beginPath();ctx.arc(hx,gh*.35,r*.24,0,6.283);ctx.fill();ctx.stroke()}
  if(P.flash>0){ctx.shadowColor="#fff";ctx.shadowBlur=20;ctx.fillStyle="#fff";ctx.beginPath();ctx.arc(gx+gl+8,0,g.big?14:7,0,6.283);ctx.fill();ctx.shadowBlur=0}
  ctx.restore();
 }
@@ -650,7 +689,7 @@ function useSkill(){
 }
 function runEvent(){
  const k=Math.floor(Math.random()*4);
- if(k===0){bt1="⚡ حدث: غزو سريع!";bt2="كرات سريعة جاية من كل الجهات";for(let i=0;i<8;i++){const e=makeEnemy("f",0,0),sd=i%4;e.x=sd===0?-40:sd===1?W+40:rnd(0,W);e.y=sd===2?-40:sd===3?H+40:rnd(0,H);enemies.push(e)}}
+ if(k===0){bt1="⚡ حدث: غزو سريع!";bt2="وحوش سريعة جاية من كل الجهات";for(let i=0;i<8;i++){const e=makeEnemy("f",0,0),sd=i%4;e.x=sd===0?-40:sd===1?W+40:rnd(0,W);e.y=sd===2?-40:sd===3?H+40:rnd(0,H);enemies.push(e)}}
  else if(k===1){bt1="☄ حدث: قصف نيازك!";bt2="ابتعد عن الدوائر الحمراء";for(let i=0;i<6;i++)mines.push({x:rnd(40,W-40),y:rnd(90,H-60),t:1300+i*350,hue:10,met:true})}
  else if(k===2){bt1="🎁 حدث: مطر عناصر!";bt2="اجمعها بسرعة";for(let i=0;i<5;i++){const q=Math.random();drops.push({x:rnd(40,W-40),y:rnd(90,H-90),k:q<.35?"h":q<.6?"s":q<.8?"r":"f",life:9000})}}
  else{bt1="💰 حدث: ذهب مضاعف!";bt2="كل العملات x2 لمدة 10 ثواني";goldT=10000}
@@ -750,7 +789,7 @@ function applySet(){const r=document.documentElement.style;r.setProperty("--ss",
 function makeLava(){const a=[],n=rd===ROUNDS-1?2:3;for(let i=0;i<n;i++){let x,y,t=0;do{x=rnd(80,W-80);y=rnd(140,H-140);t++}while(Math.hypot(x-P.x,y-P.y)<220&&t<30);a.push({x,y,r:rnd(50,70)})}return a}
 // ---- المهام ----
 const QT=[
- {t:"kill",txt:n=>"اقتل "+n+" كرة",lo:30,hi:80,r:.9},
+ {t:"kill",txt:n=>"اقتل "+n+" وحش",lo:30,hi:80,r:.9},
  {t:"boss",txt:n=>"اهزم "+n+" زعيم",lo:1,hi:2,r:60},
  {t:"coin",txt:n=>"اجمع "+n+" عملة",lo:150,hi:400,r:.25},
  {t:"skill",txt:n=>"استخدم المهارة "+n+" مرات",lo:3,hi:6,r:15},
@@ -775,11 +814,11 @@ function openQuests(){
  el.style.display="flex";
 }
 // ---- دليل الأعداء ----
-const DEX={n:["🔵","العادية","تلاحقك بسرعة متوسطة"],f:["🟡","السريعة","صغيرة وخاطفة، وتكثر بالأحداث"],t:["🔴","الضخمة","بطيئة لكن صحتها كبيرة"],s:["🟣","المنقسمة","تنقسم لكرتين سريعتين لما تموت"],g:["🟢","الرامية","تبقى بعيداً وتطلق عليك"],c:["🟠","المندفعة","تتجهز بحلقة حمراء ثم تندفع عليك"],x:["💣","القنبلة","تنفجر لما تموت، فابتعد عنها"]};
+const DEX={n:["👁","الكائن ذو العين","يلاحقك بسرعة متوسطة"],f:["🪲","حشرة الفضاء","صغيرة وخاطفة، وتكثر بالأحداث"],t:["🪨","عملاق الصخور","بطيء لكن صحته كبيرة"],s:["🟣","الهلام المنقسم","ينقسم لوحشين سريعين لما يموت"],g:["🦑","الحبّار الرامي","يبقى بعيداً ويطلق عليك"],c:["🦔","القنفذ الشائك","يتجهز بحلقة حمراء ثم يندفع عليك"],x:["💣","لغم الفضاء","ينفجر لما يموت، فابتعد عنه"]};
 function dexCheck(t){const k=(stats.kt||{})[t];if(k===25||k===100){const r=k===25?40:120;coins+=r;showToast("📖 "+DEX[t][1]+" ×"+k+"  +"+r+" 🪙")}}
 function openDex(){
  const el=$("dex");el.innerHTML="";
- el.appendChild(mkEl("h2","📖 دليل الأعداء"));el.appendChild(mkEl("div","عند 25 و100 قتلة من كل نوع تحصل مكافأة"));
+ el.appendChild(mkEl("h2","📖 سجل الوحوش"));el.appendChild(mkEl("div","عند 25 و100 قتلة من كل نوع تحصل مكافأة"));
  for(const k in DEX){const n=(stats.kt||{})[k]||0,d=mkEl("div","","it");
   d.appendChild(mkEl("span",n?DEX[k][0]+" "+DEX[k][1]+" — "+DEX[k][2]:"❓ ؟؟؟ لم تقتل منه بعد"));
   d.appendChild(mkEl("span","☠ "+n+(n<25?" /25":n<100?" /100":" ✔")));el.appendChild(d)}
@@ -787,10 +826,10 @@ function openDex(){
  const c=mkEl("button","رجوع","big");c.onclick=()=>{sfx("click");el.style.display="none";closeOv()};el.appendChild(c);
  el.style.display="flex";
 }
-const TIPS=["💡 الكومبو يزيد عملاتك: اقتل بسرعة!","💡 الاندفاع يحميك من الرصاص والكرات","💡 المهارة تشحن مع الوقت ومع كل قتلة","💡 ألبس المعدات من الحقيبة 🎒","💡 الزعماء يهيجون لما تقل صحتهم","💡 جرّب الإضافات: نار وسم وكهرباء","💡 النخبة (الحلقة الذهبية) تعطي غنيمة أكثر","💡 كل مرحلة تعطيك نجوم حسب الضربات"];
+const TIPS=["💡 الكومبو يزيد عملاتك: اقتل بسرعة!","💡 الاندفاع يحميك من الرصاص والوحوش","💡 المهارة تشحن مع الوقت ومع كل قتلة","💡 ألبس المعدات من الحقيبة 🎒","💡 الزعماء يهيجون لما تقل صحتهم","💡 جرّب الإضافات: نار وسم وكهرباء","💡 النخبة (الحلقة الذهبية) تعطي غنيمة أكثر","💡 كل مرحلة تعطيك نجوم حسب الضربات"];
 // ---- القصة والنتائج ----
 const STORY=[
- ["ذات ليلة انفجر نجم ميت وتناثرت منه كرات شريرة تبتلع الأضواء...","أنت آخر حارس بقي، ومعك مسدس ورباط رأس أحمر وقلب ما يخاف.","اهزم الزعماء واحداً واحداً وأنقذ العوالم!"],
+ ["ذات ليلة انفجر نجم ميت وتناثرت منه وحوش فضائية شريرة تبتلع الأضواء...","أنت آخر رائد فضاء بقي، ومعك مسدس ليزر وبدلة وقلب ما يخاف.","اهزم الزعماء واحداً واحداً وأنقذ العوالم!"],
  ["وصلت إلى عالم الثلج، حيث كل شي زلق وبارد...","الأرض هنا تخونك فتنزلق وانت تتحرك. تحكّم بحركتك وانتظر اللحظة المناسبة.","وملكة الجليد تنتظرك بالنهاية."],
  ["عالم الظلام ابتلع الضوء، ولا ترى إلا ما حولك...","الأعداء يخرجون من العتمة، فلا تتوقف عن الحركة.","وبالنهاية زعيم ما يخاف من الظلام."],
  ["آخر العوالم: عالم النار، وبحيرات الحمم تتفجر تحت قدميك...","ابتعد عن البقع الحمراء وقاتل بذكاء.","ومن يهزم الإمبراطور يفتح الطريق لعوالم أبعد..."],
@@ -810,7 +849,7 @@ function showResults(stN){
  el.appendChild(mkEl("h2","🎉 المرحلة "+(lvl+1)+" خلصت!"));
  const sb=mkEl("div","⭐".repeat(stN)+"☆".repeat(3-stN));sb.style.fontSize="42px";el.appendChild(sb);
  const m=Math.floor(lvs.t/60000),sc=Math.floor(lvs.t/1000)%60;
- [["⏱ الوقت",m+":"+String(sc).padStart(2,"0")],["☠ كرات مقتولة",lvs.k],["🪙 عملات جمعتها",(lvs.c+bonus)+" (مكافأة "+bonus+")"],["🔥 أعلى كومبو",lvs.mc],["💔 عدد الضربات",lvs.hits]].forEach(([a,b])=>{const d=mkEl("div","","it");d.appendChild(mkEl("span",a));d.appendChild(mkEl("span",String(b)));el.appendChild(d)});
+ [["⏱ الوقت",m+":"+String(sc).padStart(2,"0")],["☠ وحوش مقتولة",lvs.k],["🪙 عملات جمعتها",(lvs.c+bonus)+" (مكافأة "+bonus+")"],["🔥 أعلى كومبو",lvs.mc],["💔 عدد الضربات",lvs.hits]].forEach(([a,b])=>{const d=mkEl("div","","it");d.appendChild(mkEl("span",a));d.appendChild(mkEl("span",String(b)));el.appendChild(d)});
  const c=mkEl("button","متابعة","big");c.onclick=()=>{sfx("click");el.style.display="none";closeOv(true)};el.appendChild(c);
  resumeSt="play";st="pause";el.style.display="flex";saveGame();
 }
@@ -874,9 +913,17 @@ function makeObstacles(){
  solids=[...walls,...crates];
 }
 function drawSolids(){
- for(const w of walls){const g=ctx.createLinearGradient(w.x,w.y,w.x,w.y+w.h);g.addColorStop(0,"#3a4166");g.addColorStop(1,"#1d2140");ctx.fillStyle=g;ctx.strokeStyle="hsl("+bgHue()+",55%,60%)";ctx.lineWidth=2.5;ctx.beginPath();ctx.roundRect(w.x,w.y,w.w,w.h,6);ctx.fill();ctx.stroke()}
- for(const c of crates){ctx.fillStyle=c.hit>0?"#d9a15a":"#8a5a2b";ctx.strokeStyle="#c58b4a";ctx.lineWidth=2.5;ctx.beginPath();ctx.roundRect(c.x,c.y,c.w,c.h,4);ctx.fill();ctx.stroke();ctx.beginPath();ctx.moveTo(c.x,c.y);ctx.lineTo(c.x+c.w,c.y+c.h);ctx.moveTo(c.x+c.w,c.y);ctx.lineTo(c.x,c.y+c.h);ctx.stroke()}
- if(tele)for(const t of tele)gate(t.x,t.y,t.r,"#4cc9f0","🔁","");
+ for(const w of walls){
+  const g=ctx.createLinearGradient(w.x,w.y,w.x+w.w,w.y+w.h);g.addColorStop(0,"#6b6577");g.addColorStop(1,"#33303f");
+  ctx.fillStyle=g;ctx.strokeStyle="#9a93aa";ctx.lineWidth=2;ctx.beginPath();ctx.roundRect(w.x,w.y,w.w,w.h,Math.min(w.w,w.h)*.45);ctx.fill();ctx.stroke();
+  ctx.fillStyle="#00000030";const n=Math.max(2,Math.round(Math.max(w.w,w.h)/45));
+  for(let k=0;k<n;k++){const f=(k+.5)/n,cx=w.w>w.h?w.x+w.w*f:w.x+w.w/2,cy=w.w>w.h?w.y+w.h/2:w.y+w.h*f,cr=Math.min(w.w,w.h)*(.16+.08*((k*7)%3)/2);ctx.beginPath();ctx.arc(cx+((k*13)%5-2),cy+((k*11)%5-2),cr,0,6.283);ctx.fill()}
+ }
+ for(const c of crates){
+  ctx.fillStyle=c.hit>0?"#bfe9ff":"#3a4a66";ctx.strokeStyle="#7fe0ff";ctx.lineWidth=2.5;ctx.shadowColor="#4cc9f0";ctx.shadowBlur=10;ctx.beginPath();ctx.roundRect(c.x,c.y,c.w,c.h,9);ctx.fill();ctx.stroke();ctx.shadowBlur=0;
+  ctx.fillStyle="#4cc9f0";ctx.fillRect(c.x+5,c.y+c.h/2-3,c.w-10,6);ctx.fillStyle="#fff";ctx.fillRect(c.x+c.w/2-2,c.y+6,4,c.h-12);
+ }
+ if(tele)for(const t of tele)gate(t.x,t.y,t.r,"#4cc9f0","🌀","");
  if(windOn>0){ctx.strokeStyle="#e9c27a66";ctx.lineWidth=2;const tm=performance.now()*.7;for(let i=0;i<30;i++){const bx=(((i*131+tm*Math.cos(windA))%W)+W)%W,by=(((i*173+tm*Math.sin(windA))%H)+H)%H;ctx.beginPath();ctx.moveTo(bx,by);ctx.lineTo(bx+Math.cos(windA)*46,by+Math.sin(windA)*46);ctx.stroke()}}
 }
 addEventListener("resize",()=>{try{if(matchMedia("(orientation:portrait) and (pointer:coarse)").matches&&st==="play")showMenu(true)}catch(e){}});
@@ -1079,11 +1126,15 @@ function draw(){ctx.setTransform(Z*DPR,0,0,Z*DPR,0,0);
  const th=THEMES[inBase?"base":THEME_BY_LEVEL[lvl]||"stars"];ctx.fillStyle=th.col;
  for(const s of stars){s.y+=s.v*th.dir;s.x+=Math.sin((s.y+s.r*50)/40)*th.sway;if(s.y>H){s.y=0;s.x=Math.random()*W}if(s.y<0){s.y=H;s.x=Math.random()*W}ctx.globalAlpha=th.a+s.r*.2;ctx.beginPath();ctx.arc(s.x,s.y,s.r*th.sz,0,6.283);ctx.fill()}
  ctx.globalAlpha=1;
+ {const w=inBase?9:Math.floor(lvl/5),hh=inBase?210:WD().hue,cx=W*(inBase?.82:.8-(w%3)*.12),cy=H*.3,pr=Math.min(W,H)*.2;
+  const pg=ctx.createRadialGradient(cx-pr*.35,cy-pr*.35,pr*.1,cx,cy,pr);pg.addColorStop(0,"hsla("+hh+",65%,60%,.28)");pg.addColorStop(1,"hsla("+hh+",70%,18%,.08)");
+  ctx.fillStyle=pg;ctx.beginPath();ctx.arc(cx,cy,pr,0,6.283);ctx.fill();
+  if(inBase||w%2===1){ctx.strokeStyle="hsla("+hh+",60%,70%,.18)";ctx.lineWidth=pr*.08;ctx.beginPath();ctx.ellipse(cx,cy,pr*1.5,pr*.35,-.4,0,6.283);ctx.stroke()}}
  if(st==="menu")for(const m of menuBalls)ball(m.x,m.y,m.r,m.hue,null);
  if(!P)return;
  ctx.save();
  if(shake>.5)ctx.translate(rnd(-shake,shake),rnd(-shake,shake));
- if(inBase){for(const z of zones()){gate(z.x,z.y,z.r,z.col,z.icon,z.label);if(z.badge&&z.badge()){ctx.fillStyle="#ff3b3b";ctx.beginPath();ctx.arc(z.x+z.r*.8,z.y-z.r*.8,8,0,6.283);ctx.fill()}}ctx.font="800 "+15/Z+"px sans-serif";ctx.fillStyle="#fff9";ctx.textAlign="center";ctx.fillText("ادخل البوابة لاختيار المرحلة",W/2,zones()[0].y+48+52/Z);ctx.fillStyle="#ffe9a8cc";ctx.fillText("🧑🏫 "+TIPS[Math.floor(performance.now()/7000)%TIPS.length],W/2,W>H*1.2?H*.93:H*.585)}
+ if(inBase){for(const z of zones()){gate(z.x,z.y,z.r,z.col,z.icon,z.label);if(z.badge&&z.badge()){ctx.fillStyle="#ff3b3b";ctx.beginPath();ctx.arc(z.x+z.r*.8,z.y-z.r*.8,8,0,6.283);ctx.fill()}}ctx.font="800 "+15/Z+"px sans-serif";ctx.fillStyle="#fff9";ctx.textAlign="center";ctx.fillText("ادخل منصة الإطلاق لاختيار المرحلة",W/2,zones()[0].y+48+52/Z);ctx.fillStyle="#ffe9a8cc";ctx.fillText("🧑🏫 "+TIPS[Math.floor(performance.now()/7000)%TIPS.length],W/2,W>H*1.2?H*.93:H*.585)}
  drawSolids();
  for(const l of lava){const k=1+Math.sin(performance.now()/300+l.x)*.06;ctx.fillStyle="#ff5a1f55";ctx.strokeStyle="#ff8c3a";ctx.lineWidth=3;ctx.shadowColor="#ff5a1f";ctx.shadowBlur=22;ctx.beginPath();ctx.ellipse(l.x,l.y,l.r*k,l.r*.7*k,0,0,6.283);ctx.fill();ctx.stroke();ctx.shadowBlur=0}
  if(portal){gate(portal.x,portal.y,40,"#c77dff","🌀","القاعدة");if(isFinite(portal.left)){ctx.font="800 "+15/Z+"px sans-serif";ctx.fillStyle="#fff";ctx.fillText("الجولة التالية بعد "+Math.ceil(Math.max(0,portal.left)/1000),portal.x,portal.y-56/Z)}}
